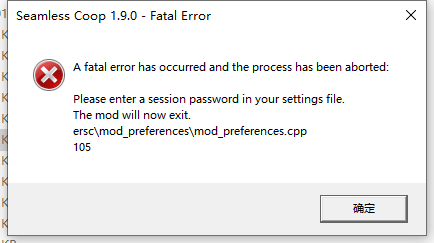
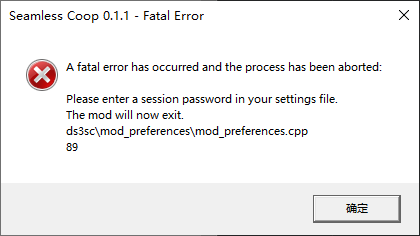
常见问题

Changed region(s): [[0.0, 0.0, 1.0, 1.0], [0.1548, 0.3856, 0.8048, 0.6525], [0.0619, 0.2373, 0.9286, 0.3856]]

diff --git a/docs/common_problem.md b/docs/common_problem.md
@@ -43,9 +43,9 @@ nav_order: 4
 
 ---
 
-# Failed to find "SeamlessCoop//ersc.dll" (Error = 2)
+# Failed to find "SeamlessCoop//ds3sc.dll" (Error = 2)
 
-![ersc_dll文件丢失.png](/assets/images/ersc_dll文件丢失.png)
+![ds3sc_dll文件丢失.png](/assets/images/ds3sc_dll文件丢失.png)
 
 如图所示，你这个文件丢了，这个是无缝联机mod的其中一个文件，找一下放进去就行了
 
@@ -60,7 +60,7 @@ nav_order: 4
 > 
 > 请在配置文件中设置一个房间密码（会话密码）
 
-这个是无缝联机mod的提示，提示你需要设置一个房间密码才能启动游戏，在无缝的配置文件`ersc_settings.ini`里设置一下房间密码就行了
+这个是无缝联机mod的提示，提示你需要设置一个房间密码才能启动游戏，在无缝的配置文件`ds3sc_settings.ini`里设置一下房间密码就行了
 
 ![无缝没设置密码.png](/assets/images/无缝没设置密码.png)
 
@@ -155,80 +155,13 @@ nav_order: 4
 
 ---
 
-# 游戏版本与保存数据不相符。请结束游戏，从Steam客户端更新版本后，重新启动游戏
-
-![游戏版本与保存数据不相符.jpg](/assets/images/游戏版本与保存数据不相符.jpg)
-
-这个提示是因为存档的版本高于游戏的版本，解决方案有两个，二选一即可
-1. 升级游戏版本，高于存档版本就可以，不确定存档是哪个版本的话，就把游戏升级到最新版
-2. 使用存档转换器，把自己的存档转成自己的存档，但是存档的版本会降级，降到大概刚发售时的版本，这样的话无论如何你的存档都不会高于你的游戏版本
-
-> 假如你有一个1.14版本的游戏本体，你创建一个新存档，那这个存档的版本就是1.14，你游戏升级到1.15了，你启动一次游戏，你的存档就升级成1.15了，这时候你再启动1.14及以下版本的游戏读取这个存档的话就会提示这个
-
----
-
-# 保存数据损毁，游戏进度保存失败
-
-![保存数据损毁.png](/assets/images/保存数据损毁.png)
-
-> **保存数据**指的就是存档
-
-出现这个提示主要有两种情况：
-1. 你打的mod跟游戏版本不兼容，找与游戏版本兼容的mod打进去
-2. 文件真的损坏了，可以使用存档转换器转换一下试试，把自己的存档转成自己的存档，期间可能会修复存档损坏的问题，相关视频：[存档问题详解](https://www.bilibili.com/video/BV1CkcDegEE1){:target="_blank"}
-3. 意料之外的情况，可以把存档挪走或者删掉试试，总之目的是让游戏新建存档，记得退出游戏后再操作存档文件 [游戏的存档在哪]({{site.baseurl}}/docs/faq/#游戏的存档在哪)
-
----
-
-# Steam datagram relay error: k_ESteamNetworkingAvailability_Unknown
-
-{: .note-title }
-> 大概意思是
->
-> 连接不上steam网络
-
-> 常见于正版无缝联机和学习版steam无缝联机玩家，旧版的学习版局域网玩家也会遇到
-
-![steamDB未知.jpg](/assets/images/steamDB未知.jpg)
-
-正常的解决方案就是加速steam，如果解决不了，要么是网络不好（没人给我反馈过这种情况），要么就是别的问题，比如：
-1. 你是学习版，但是游戏运行的时候steam里面没有一个叫spacewar的游戏在运行，安装了无缝联机mod，使用道具也会提示这个，学习版怎么无缝联机参考：[安装无缝联机]({{site.baseurl}}/docs/upgrade/esrc/)
-1. 用的加速器不行，比如steam++（有概率不行，最好换别的加速），我一般UU，很多加速器加速steam都是免费的
-1. 你是学习版局域网联机，不建议使用，参考第二条的教程换成学习版steam联机
-
-{: .note-title }
-> 怎么分辨我是不是学习版steam无缝联机？
-> 
-> 如果运行游戏的时候，steam库里面有一个叫`spacewar`的游戏在运行，那就是，否则不是
-
----
-
-# Steam lobby search timed out
-
-{: .note-title }
-> 大概意思是
->
-> steam大厅搜索超时
-
-![steamDB超时.png](/assets/images/steamDB超时.png)
-
-正常的解决方案就是加速steam，如果解决不了，要么是网络不好，要么就是别的问题，比如：
-1. 用的加速器不行，比如steam++（有概率不行，最好换别的加速），我一般UU，很多加速器加速steam都是免费的
-
----
-
-# 加入其他世界失败: Not sessions found
-
-{: .note-title }
-> 大概意思是
->
-> 没有找到房间
+# 未找到可加入的世界
 
 ![未找到房间.png](/assets/images/未找到房间.png)
 
 你和你的小伙伴想联机到一起，需要满足下列条件：
 1. 无缝联机密码一样(注意等于号有没有空格，修改完配置文件有没有保存)
-2. 标题页面右下角三个版本号一样
+2. 标题页面左上角三个版本号一样
 3. 都是学习版或者都是正版(正版想和学习版联机需要转成学习版，操作步骤参考：[正版变学习版]({{site.baseurl}}/docs/upgrade/esrc/#如果你是学习版需要额外打一个联机补丁)
 4. 打了哪些mod也需要一样(不影响游戏数值的除外)
 

diff --git a/docs/upgrade/esrc.md b/docs/upgrade/esrc.md
@@ -127,7 +127,7 @@ mod_language_override = schinese
 > 如果你有正版的话，建议复制出来一份再打这个补丁，这样的话正版和学习版是分开的，想玩哪个版本就找对应的目录启动就好了
 
 
-夸克网盘：「DARKSOULSIII_Fix_Repair_Steam_Generic.zip」(https://pan.quark.cn/s/114412518d74){:target="_blank"}
+夸克网盘：[「DARKSOULSIII_Fix_Repair_Steam_Generic.zip」](https://pan.quark.cn/s/114412518d74){:target="_blank"}
 
 
 ![学习版steam联机补丁.png](/assets/images/学习版steam联机补丁.png)
